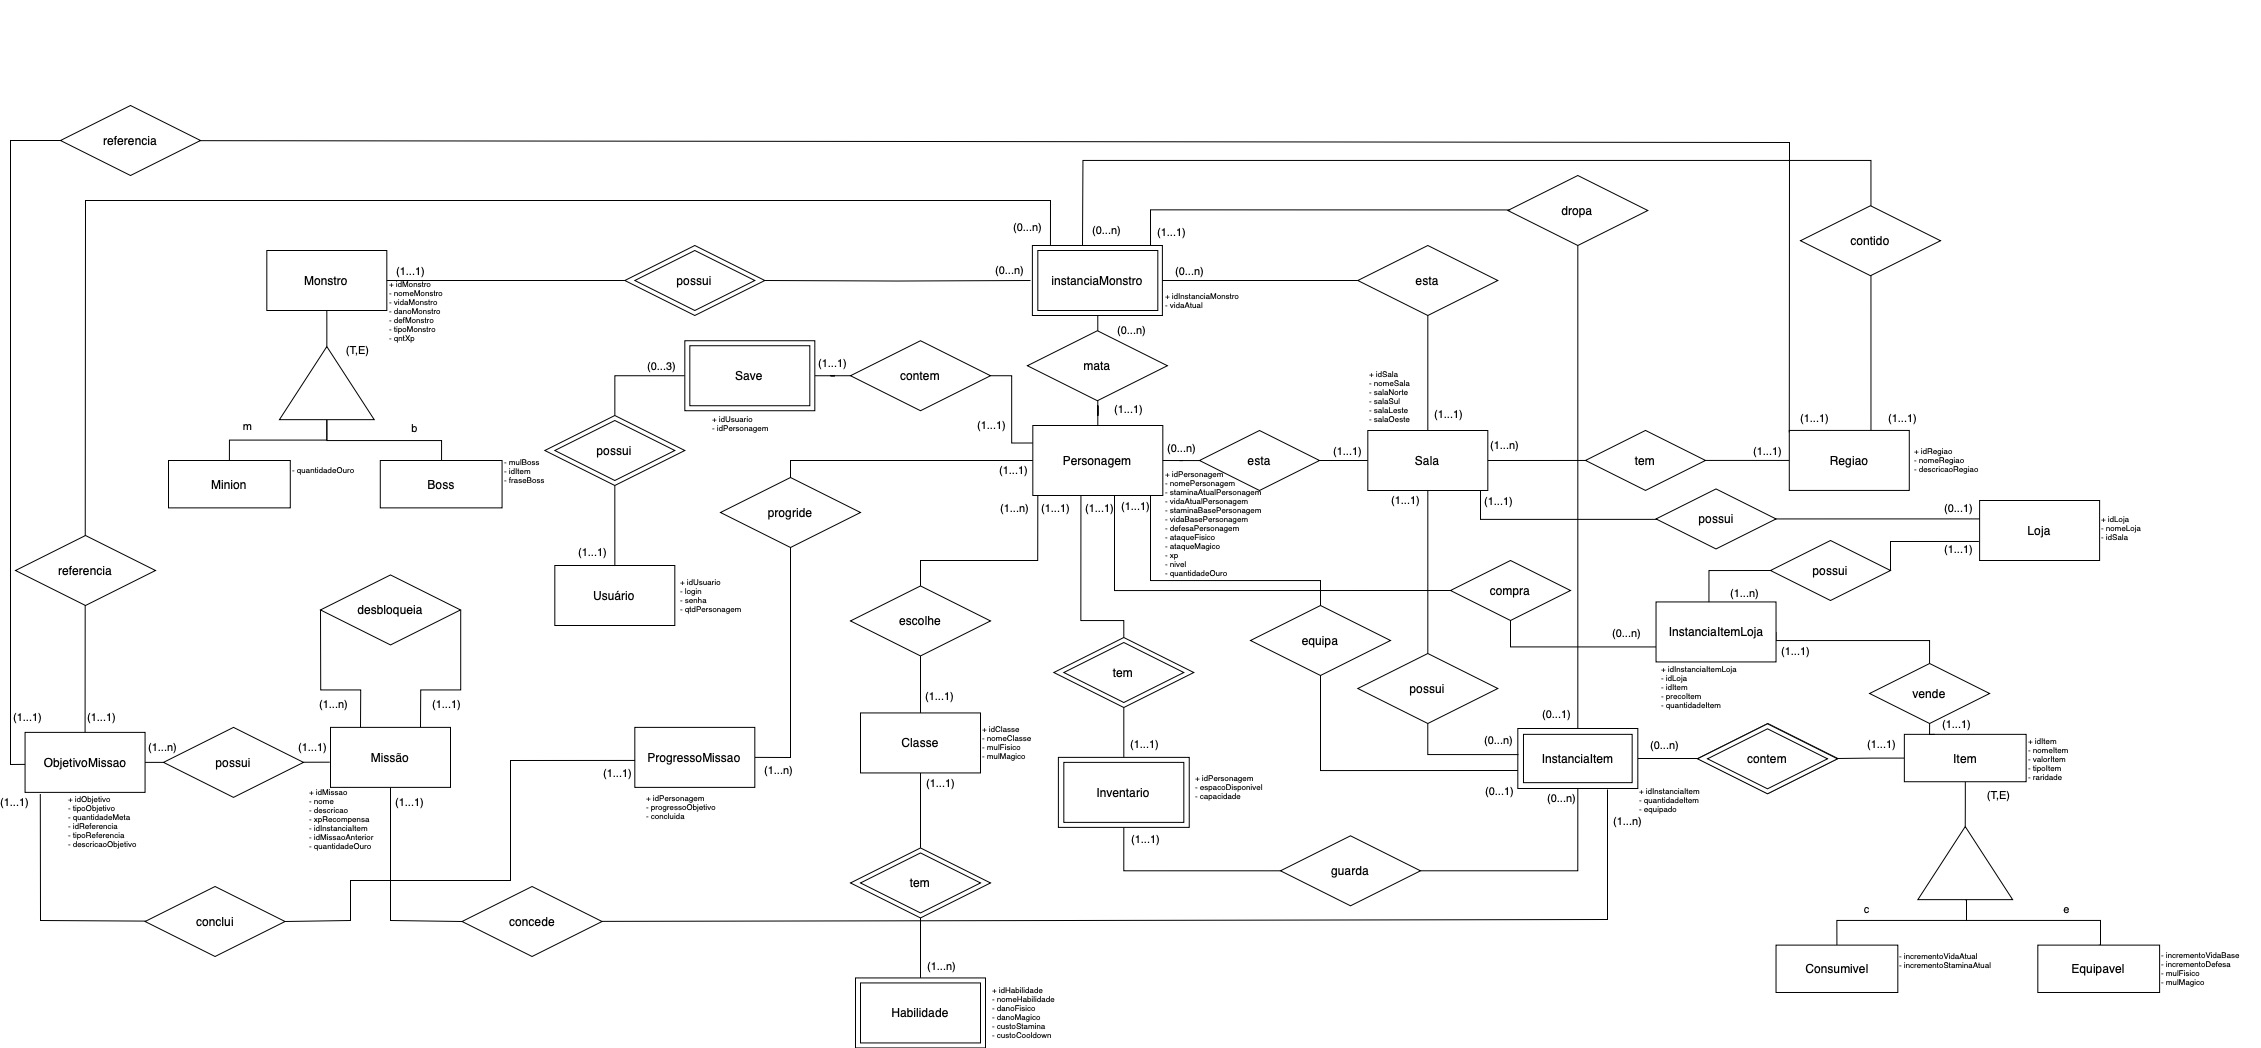
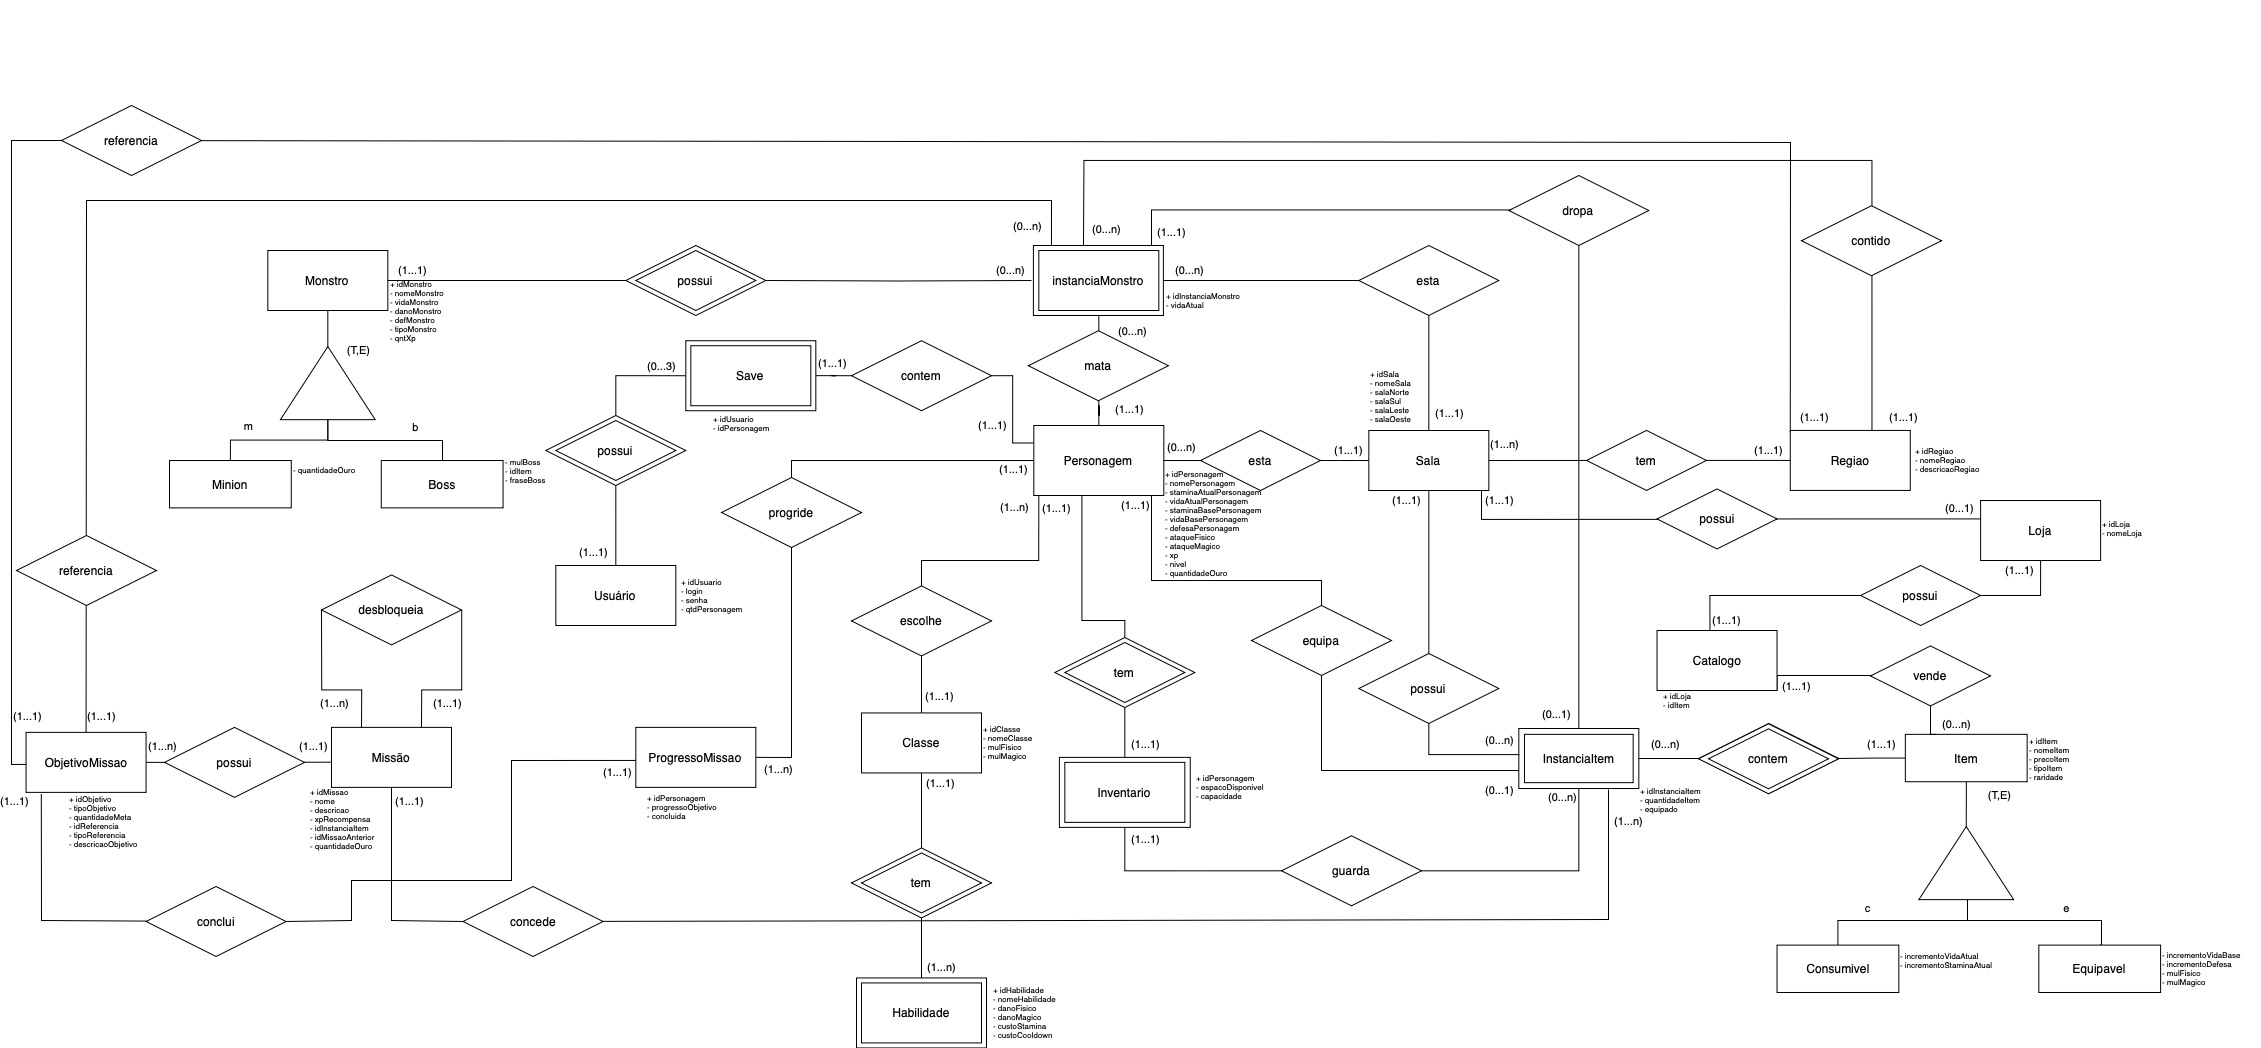
Add new features haha

diff --git a/Modulo_3/ME-R(Modelo_Entidade_Relacionamento)_v3.md b/Modulo_3/ME-R(Modelo_Entidade_Relacionamento)_v3.md
@@ -22,7 +22,7 @@
 * ProgressoMissao
 * Loja
 * InstanciaItem
-* InstanciaItemLoja
+* Catalogo
 
 ## Atributos
 
@@ -39,9 +39,9 @@
 - **IntanciaItem:** idInstaciaItem, idItem, idItemSala, idPersonagem, quantidadeItem, equipado
 - **Sala:** idSala, nomeSala, salaNorte, salaSul, salaLeste, salaOeste, idRegiao
 - **Regiao:** idRegiao, nomeRegiao, descricaoRegiao
-- **Item:** idItem, nomeItem, valorItem, tipoItem, raridade  
-- **Consumivel:** idItem, nomeItem, valorItem, raridade, incrementoVidaAtual, incrementoStaminaAtual  
-- **Equipavel:** idItem, nomeItem, valorItem, raridade,  incrementoVidaBase, incrementoDefesa, mulFisico, mulMagico 
+- **Item:** idItem, nomeItem, precoItem, tipoItem, raridade  
+- **Consumivel:** idItem, nomeItem, precoItem, raridade, incrementoVidaAtual, incrementoStaminaAtual  
+- **Equipavel:** idItem, nomeItem, precoItem, raridade,  incrementoVidaBase, incrementoDefesa, mulFisico, mulMagico 
 - **Missao:** idMissao, nomeMissao, descricao, idMissaoAnterior, xpRecompensa, idInstaciaItem, quatidadeOuro
 - **ObjetivoMissao:** idObjetivo, descricaoObjetivo, tipoObjetivo, quantidadeMeta, idMissao, idReferencia, tipoReferencia  
 - **ProgressoMissao:** idPersonagem, idObjetivo, progressoOjetivo, concluida  
@@ -171,20 +171,16 @@
 - Um InstanciaItem pode ser equipado por um Personagem.
 - Cardinalidade: (0:1) (1:1)
 
-**Personagem compra InstanciaItemLoja:**
-- Um Personagem pode comprar nenhum ou várias InstanciaItemLoja.
-- Uma InstanciaItemLoja pode ser comprada por um Personagem.
+**Loja possui Catalogo:**
+- Uma Loja possui um Catalogo.
+- Um Catalogo pertence a uma única Loja.
+- Cardinalidade: (1:1) (1:1)
+
+**Catalogo vende Item:**
+- Um Catalogo pode vende vários Itens.
+- Um Item pode ser vendido em um Catalogo.
 - Cardinalidade: (0:N) (1:1)
 
-**Loja possui InstanciaItemLoja:**
-- Uma Loja pode ter várias InstanciaItemLoja.
-- Uma InstanciaItemLoja pertence a uma única Loja.
-- Cardinalidade: (1:N) (1:1)
-
-**InstanciaItemLoja referencia Item:**
-- Uma InstanciaItemLoja pode referenciar um Item.
-- Um Item pode ser referenciado por uma InstanciaItemLoja.
-- Cardinalidade: (1:1) (1:1)
 
 **Sala possui Loja:**
 - Uma Sala pode ter uma Loja.

diff --git a/Modulo_3/DD(Dicinario_de_Dados)_v3.md b/Modulo_3/DD(Dicinario_de_Dados)_v3.md
@@ -124,8 +124,9 @@
 | :-----------: | :----------: | :-------------------------: | :-------: | :---: |
 |    idItem     |     int      |   Identificador único do item  |  NOT NULL |   PK  |
 |    nomeItem   | varchar[20]   |         Nome do item           |  NOT NULL |  -   |
-|   valorItem    |     int      |         Valor do item         |  NOT NULL |  -   |
+|   precoItem    |     int      |         Valor do item         |  NOT NULL |  -   |
 |    tipoItem   |     int      | Tipo do item (consumivel = 0, equipavel = 1) |  NOT NULL |  -   |
+|    raridade   |     int      | Raridade do item reflete nivel Personagem |  NOT NULL |  -   |
 ---
 ### **Consumivel**
 #### Descrição: Entidade que armazena os dados dos itens consumíveis.
@@ -245,17 +246,13 @@
 |    idSala     |     int      | Identificador da sala onde a loja está |  NOT NULL |  FK   |
 |   nomeLoja    | varchar[20]   |        Nome da loja         |  NOT NULL |  -   |
 
-### **InstanciaItemLoja**
-#### Descrição: Entidade que armazena os dados da instância de um item em uma loja.
+### **Catalogo**
+#### Descrição: Entidade que armazena os itens disponíveis nas lojas.
 #### Observações: Uma loja pode ter vários itens.
 | Nome Variável        |     Tipo     |                Descrição            | Restrição | Chave |
 | :-------------------: | :----------: | :--------------------------------: | :-------: | :---: |
-| idInstanciaItemLoja  |     int      | Identificador único da instância do item|  NOT NULL |  PK   |
-|    idLoja            |     int      | Identificador da loja onde o item está |  NOT NULL |  FK  |
-|    idItem            |     int      | Identificador do item da instância |  NOT NULL |  FK  |
-|    quantidadeItem    |     int      | Quantidade de itens na loja     |  NOT NULL |   -   |
-|   precoItem         |     int      | Preço do item na loja           |  NOT NULL |   -   |
-
+|   IdLoja             |     int      | Identificador único da loja         |  NOT NULL |  FK   |
+|   IdItem             |     int      | Identificador único do item         |  NOT NULL |  FK   |
 
 ## Histórico de Versões
 
